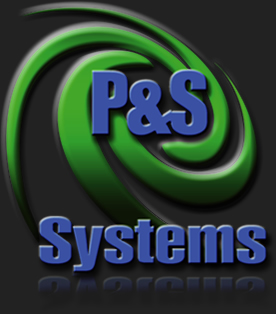
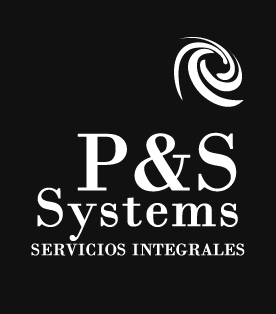
Inicio
Entrada Sistema

diff --git a/css/style.css b/css/style.css
@@ -73,7 +73,17 @@ textarea {
 .navbar .container {
     position: relative;
 }
-
+.dc{
+    color: #FFF;
+    background: #57294D;
+}
+.dc:hover{
+    color: #FFF;
+    background: #31163F;
+}
+.dc-form h1{
+ text-align: center;
+}
 .navbar-inner {
     padding: 7px 0;
     background: url(../images/banner.fw.png)!important;
@@ -96,7 +106,7 @@ textarea {
     top: 2px;
     font-family: 'Arial Bold';
     font-size: 50px;
-    
+
 }
 
 .navbar .search-query {

diff --git a/css/logo.css b/css/logo.css
@@ -74,7 +74,7 @@
   -webkit-border-radius: 1000px;
   -moz-border-radius: 1000px;
   border-radius: 1000px;
-  background-color: rgba(64,167,45, 0.9);
+  background-color: rgba(104,58,97, 0.9);
   text-align: center;
   color: #ffffff;
   text-shadow: 1px 1px 2px rgba(0, 0, 0, 0.3);

diff --git a/html/index.php b/html/index.php
@@ -38,7 +38,7 @@ session_destroy();
     background-size: cover;">
         <div class="account-container">
             <div class="content clearfix">
-                <form action="" method="post" name="form_admin">
+                <form action="" method="post" name="form_admin" class="dc-form">
                     <h1>Usuario</h1>
                     <div class="login-fields">
                         <p>Por favor, proporcione sus datos</p>
@@ -58,14 +58,14 @@ session_destroy();
                             <input id="Field" name="Field" type="checkbox" class="field login-checkbox" value="First Choice" tabindex="4" />
                             <label class="choice" for="Field">Recordar conexión</label>
                         </span>
-                        <button class="button btn btn-success btn-large" id="btnIngreso">Ingresar</button>
+                        <button class="button btn dc btn-large" id="btnIngreso">Ingresar</button>
                     </div>
                 </form>                
             </div>
             <div class="member span4">
                 <div class="member-thumbnail">
                     <a href="#">
-                        <img src="../images/system.jpg" alt="avatar" />
+                        <img src="../images/system.fw.png" alt="avatar" />
                     </a>
                 </div>
                 <ul class="member-menu">
